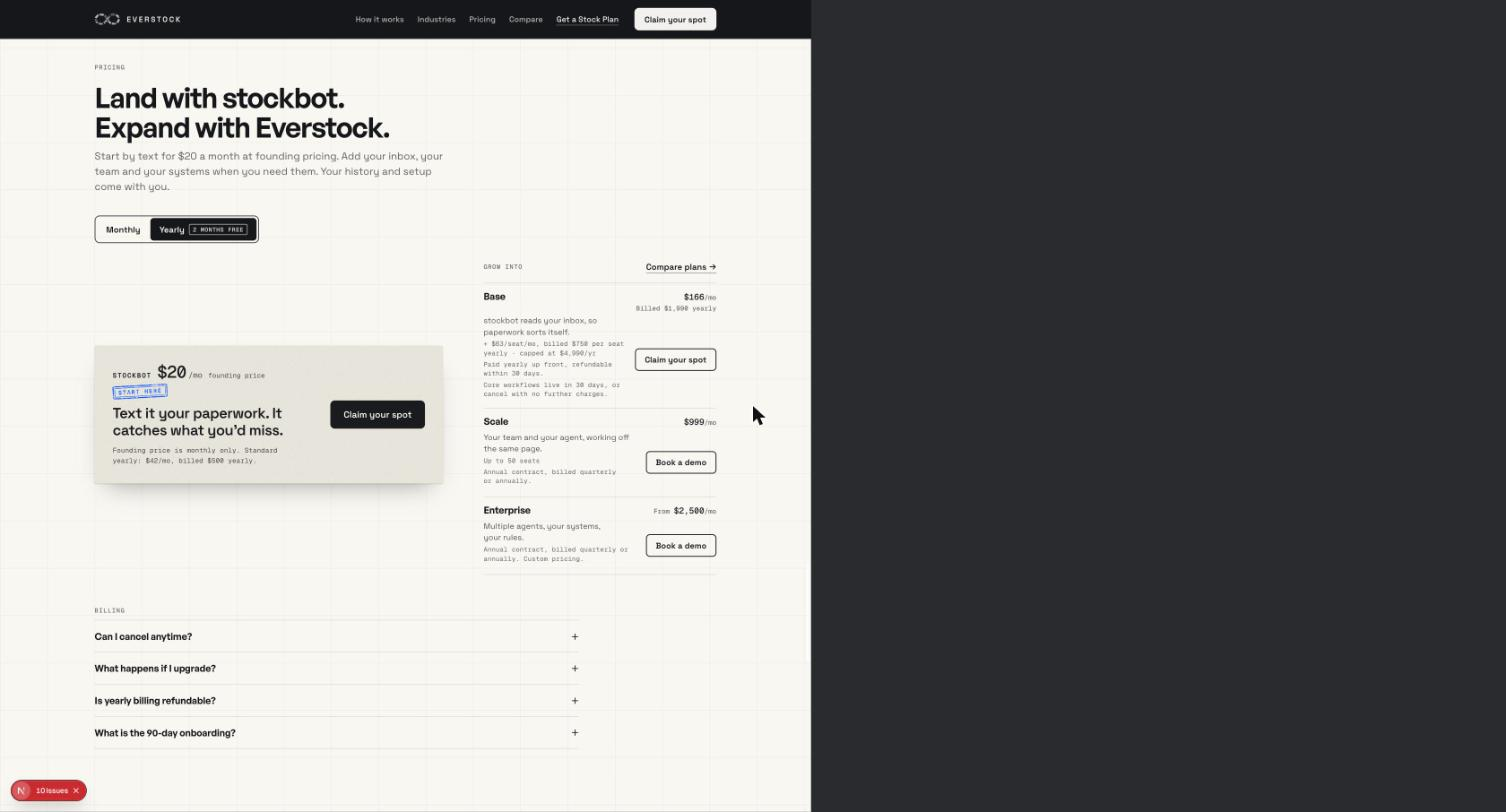
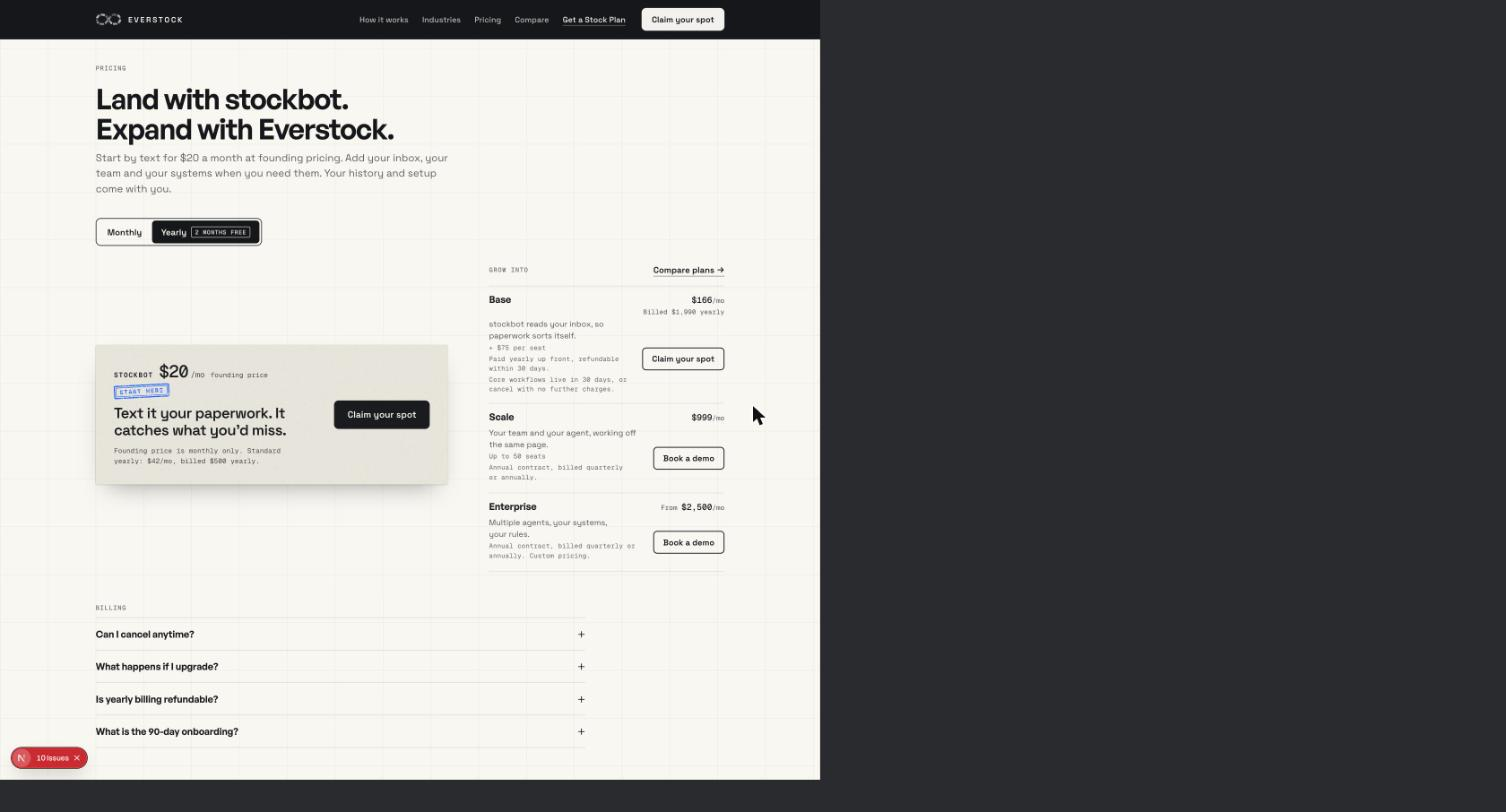
Pricing: the seat price reads "+ $75 per seat" in both views; no yearly seat maths on the cards or in the FAQ
Claude-Session: https://claude.ai/code/session_01FbPmyYYA5Zt8ojL3uAAUMN

diff --git a/lib/pricing.config.ts b/lib/pricing.config.ts
@@ -118,10 +118,10 @@ export function priceFor(p: Plan, billing: Billing) {
   const billed = yearly ? `Billed ${usd(yearlyTotal(p.monthly))} yearly` : "";
   let seat = "";
   if (p.seatMonthly) {
-    seat = yearly
-      ? `+ ${usd(perMonthOfYearly(p.seatMonthly))}/seat/mo, billed ${usd(yearlyTotal(p.seatMonthly))} per seat yearly`
-      : `+ ${usd(p.seatMonthly)} per seat`;
-    if (p.capMonthly) seat += yearly ? ` · capped at ${usd(yearlyTotal(p.capMonthly))}/yr` : ` · capped at ${usd(p.capMonthly)}/mo`;
+    // the seat price is shown as is in both views (Luca, 2026-11-03: "showing $75 per seat is
+    // enough"; yearly seat maths only gives the customer more numbers to think about)
+    seat = `+ ${usd(p.seatMonthly)} per seat`;
+    if (p.capMonthly && !yearly) seat += ` · capped at ${usd(p.capMonthly)}/mo`;
   } else if (p.maxSeats) seat = `Up to ${p.maxSeats} seats`;
   return { amount, per: "/mo", pre: p.from ? "From" : "", billed, seat };
 }
@@ -172,7 +172,7 @@ export function sceneNote(id: Plan["id"]) {
 
 export function baseSeatsAnswer() {
   const b = plan("base");
-  return `Base is ${usd(b.monthly!)}/mo plus ${usd(b.seatMonthly!)} for each seat, and your bill is capped at ${usd(b.capMonthly!)}/mo, so adding people past that point costs nothing extra. On yearly billing it's ${usd(yearlyTotal(b.monthly!))} a year plus ${usd(yearlyTotal(b.seatMonthly!))} per seat, capped at ${usd(yearlyTotal(b.capMonthly!))}.`;
+  return `Base is ${usd(b.monthly!)}/mo plus ${usd(b.seatMonthly!)} for each seat, and your bill is capped at ${usd(b.capMonthly!)}/mo, so adding people past that point costs nothing extra. On yearly billing, Base is ${usd(yearlyTotal(b.monthly!))} a year.`;
 }
 
 export const seatsRow = () => `${usd(plan("base").seatMonthly!)} each, capped at ${usd(plan("base").capMonthly!)}/mo`;
